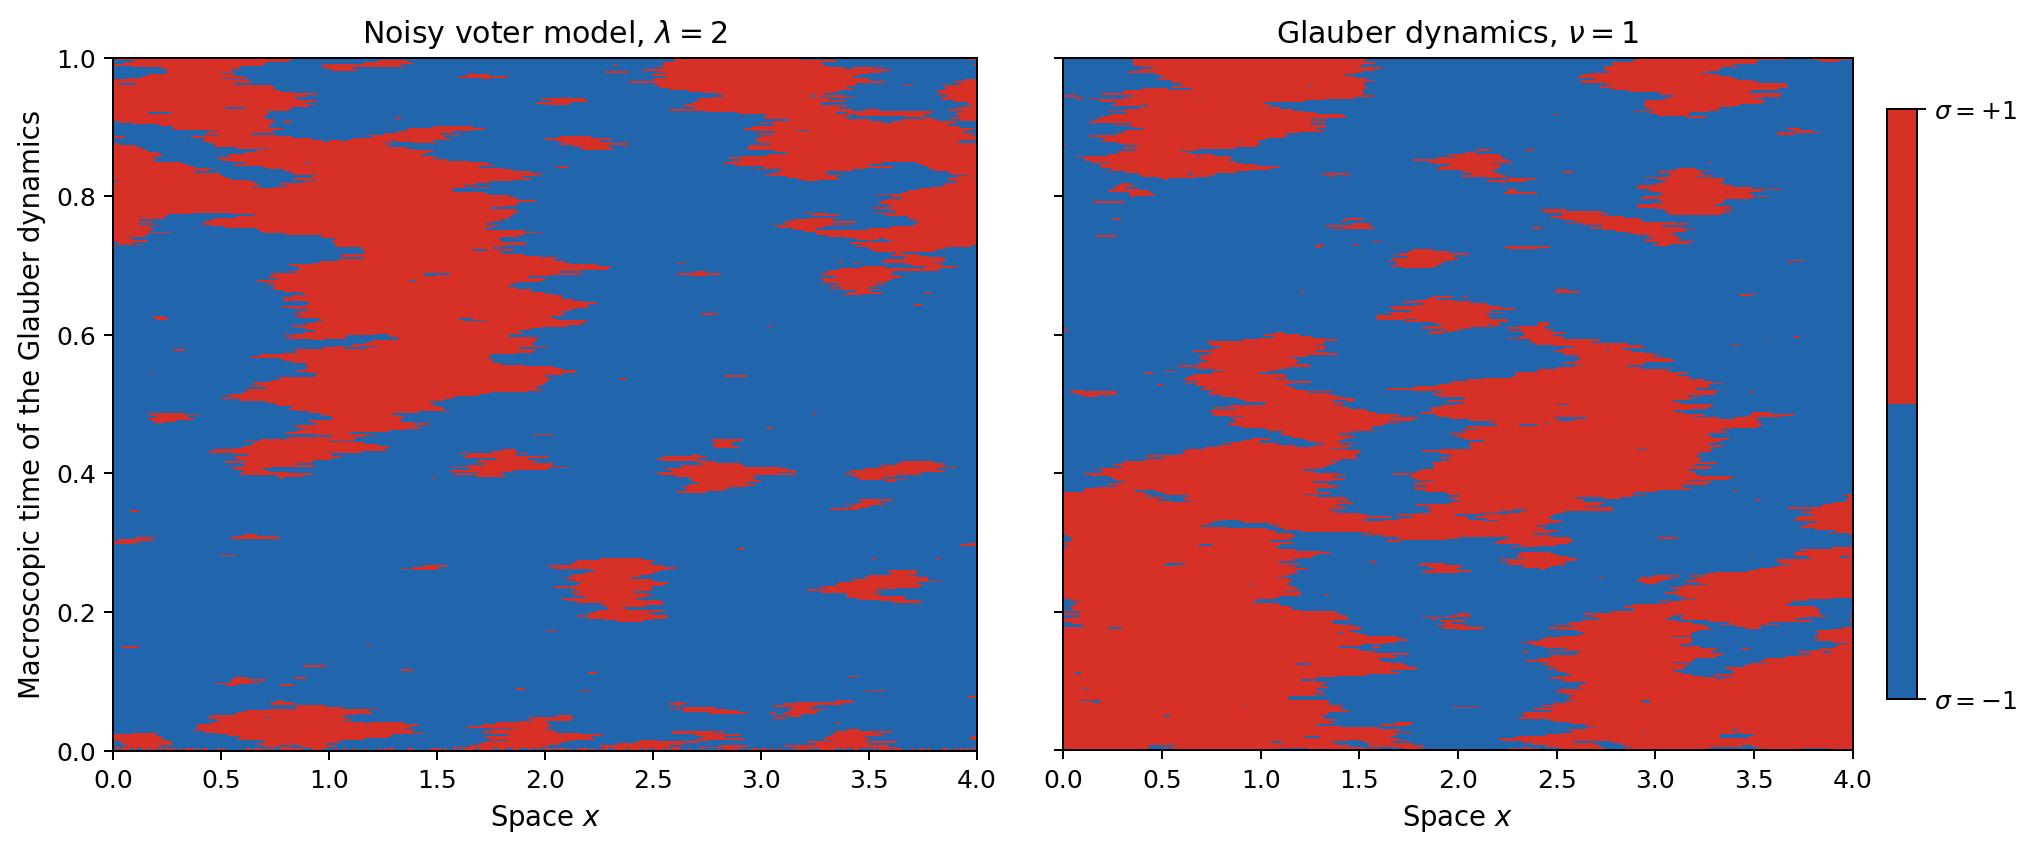
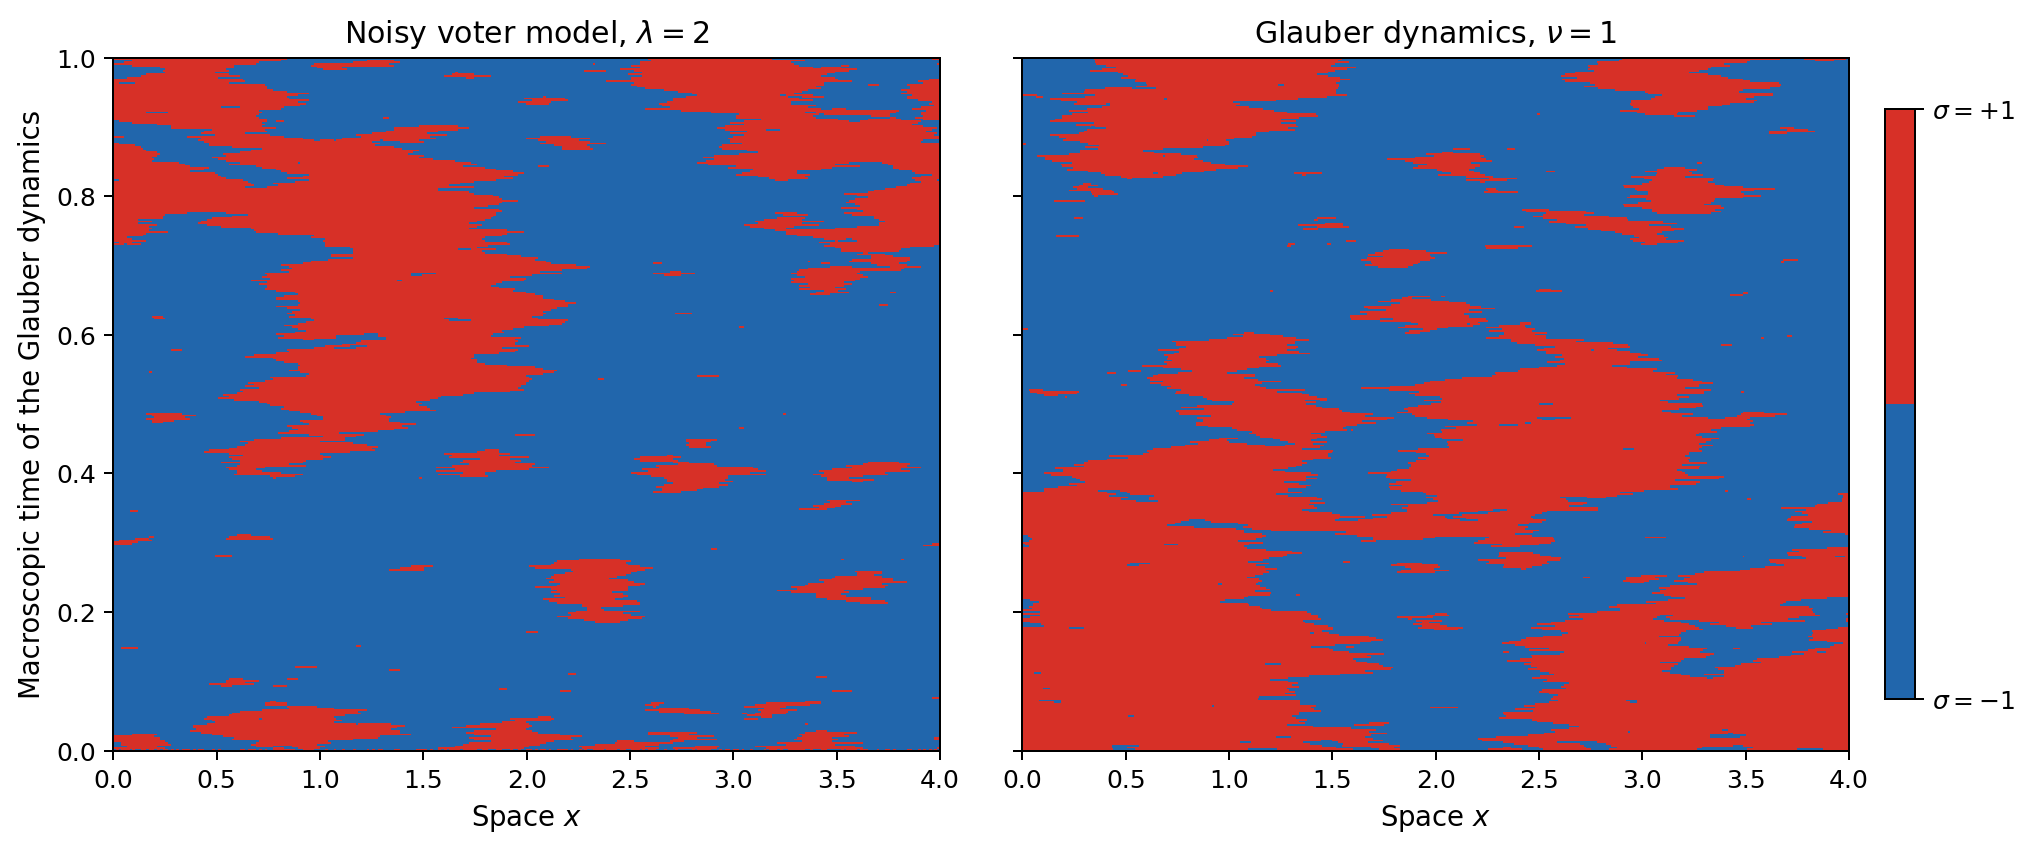
plot_voter_comparison.py: the two panels of the same width, a row at its time
The colorbar took its room from the right panel only: in the picture of the
page the panel of the noisy voter model was 862 px wide and the one of the
Glauber dynamics 788 px, for the same length 4. And the frames of Gillespie
were drawn from the time 0, but the time 0 is not saved: the first frame is
the time 1/resolution, so at the bottom the same time was one frame higher
on the left than on the right.

Now the colorbar takes its room from the two panels, and a row is a band
centred at its time.

Run the two programs again from a clone of GitHub, with the commands of the
page: output.txt and the trajectory are the ones of the old picture, byte
for byte. Drawn docs/images/voter_comparison.png again with them.

Checked: the two panels are 825 px wide. On a file of bands the colour
changes at the same heights in the two panels, 1/8, 3/8, 5/8 and 7/8;
before it was 1/5, 2/5, 3/5, 4/5 on the left and 1/4, 1/2, 3/4 on the right.
In the new picture the 105091 and 210804 cells with the neighbours of their
colour have the colour of the data. ruff passes.

diff --git a/python_scripts/plot_voter_comparison.py b/python_scripts/plot_voter_comparison.py
@@ -9,8 +9,11 @@ with the same colours.
 
 The time of the noisy voter model is divided by 2: its genealogies have variance
 1 in a unit of time and the ones of the Glauber dynamics have variance 2.  With
-lambda = 2 nu^2 the two dynamics have then the same limit.  The default name of
-the picture is voter_comparison.png.
+lambda = 2 nu^2 the two dynamics have then the same limit.
+
+A row is drawn as a band centred at its time.  The first row of nvm_sim is the
+time 0; the first frame of Gillespie is the time 1/resolution, the time 0 is not
+saved.  The default name of the picture is voter_comparison.png.
 """
 import json
 import os
@@ -26,16 +29,18 @@ MARKER = -9999
 
 
 def load_voter(path):
-    """The colours of nvm_sim as spins, with the length of the ring, the final time and lambda."""
+    """The colours of nvm_sim as spins, with the length of the ring, the times of the rows and lambda."""
     with open(path) as f:
         header = dict(item.split("=") for item in f.readline().lstrip("# ").split())
     spins = 2 * np.loadtxt(path, ndmin=2) - 1
-    last_time = (spins.shape[0] - 1) / float(header["resolution"])
-    return spins, float(header["L"]), last_time, float(header["lambda"])
+    # The row j is the time j/resolution: the first one is the time 0.
+    step = 1.0 / float(header["resolution"])
+    times = (0.0, (spins.shape[0] - 1) * step, step)        # first, last, step
+    return spins, float(header["L"]), times, float(header["lambda"])
 
 
 def load_glauber(results_dir):
-    """The trajectory saved by Gillespie, with the length of the ring, the final time and nu."""
+    """The trajectory saved by Gillespie, with the length of the ring, the times of the frames and nu."""
     trajectory = os.path.join(results_dir, "trajectory")
     with open(os.path.join(trajectory, "configuration.json")) as f:
         cfg = json.load(f)
@@ -43,25 +48,32 @@ def load_glauber(results_dir):
     raw = np.fromfile(os.path.join(trajectory, "spins_output.bin"), dtype=np.int32)
     if len(raw) != frames * (l + 1) or np.any(raw.reshape(frames, l + 1)[:, l] != MARKER):
         raise ValueError(f"{trajectory}: spins_output.bin is not the one of configuration.json")
-    return raw.reshape(frames, l + 1)[:, :l], cfg["L"], cfg["T"], cfg.get("nu")
+    # The frame j is the time (j+1)/resolution: the time 0 is not saved.
+    step = 1.0 / cfg["resolution"]
+    times = (step, frames * step, step)                     # first, last, step
+    return raw.reshape(frames, l + 1)[:, :l], cfg["L"], times, cfg.get("nu")
 
 
 def main(voter_path, results_dir, out="voter_comparison.png"):
-    voter, L_voter, T_voter, lam = load_voter(voter_path)
-    glauber, L_glauber, T_glauber, nu = load_glauber(results_dir)
+    voter, L_voter, times_voter, lam = load_voter(voter_path)
+    glauber, L_glauber, times_glauber, nu = load_glauber(results_dir)
+    times_voter = tuple(t / 2.0 for t in times_voter)       # the time of the Glauber dynamics
 
     cmap = ListedColormap(["#2166ac", "#d73027"])   # blue = -1, red = +1
     fig, axes = plt.subplots(1, 2, figsize=(13, 5), sharey=True, gridspec_kw={"wspace": 0.1})
-    panels = ((voter, L_voter, T_voter / 2.0, rf"Noisy voter model, $\lambda = {lam:g}$"),
-              (glauber, L_glauber, T_glauber, "Glauber dynamics" + (rf", $\nu = {nu:g}$" if nu else "")))
-    for ax, (spins, length, last_time, title) in zip(axes, panels):
+    panels = ((voter, L_voter, times_voter, rf"Noisy voter model, $\lambda = {lam:g}$"),
+              (glauber, L_glauber, times_glauber, "Glauber dynamics" + (rf", $\nu = {nu:g}$" if nu else "")))
+    for ax, (spins, length, (first, last, step), title) in zip(axes, panels):
+        # A row is a band of height step, centred at its time.
         im = ax.imshow(spins, cmap=cmap, vmin=-1, vmax=1, aspect="auto", origin="lower",
-                       interpolation="nearest", extent=[0, length, 0, last_time])
+                       interpolation="nearest", extent=[0, length, first - step / 2, last + step / 2])
         ax.set_title(title, fontsize=12)
         ax.set_xlabel("Space $x$", fontsize=11)
+    axes[0].set_ylim(0, max(times_voter[1], times_glauber[1]))
     axes[0].set_ylabel("Macroscopic time of the Glauber dynamics", fontsize=11)
 
-    cbar = fig.colorbar(im, ax=axes[-1], orientation="vertical", fraction=0.046, pad=0.04,
+    # The colorbar takes its room from the two panels, so that they have the same width.
+    cbar = fig.colorbar(im, ax=axes, orientation="vertical", fraction=0.023, pad=0.02,
                         ticks=[-1, 1], shrink=0.85)
     cbar.ax.set_yticklabels([r"$\sigma = -1$", r"$\sigma = +1$"], fontsize=10)
 
